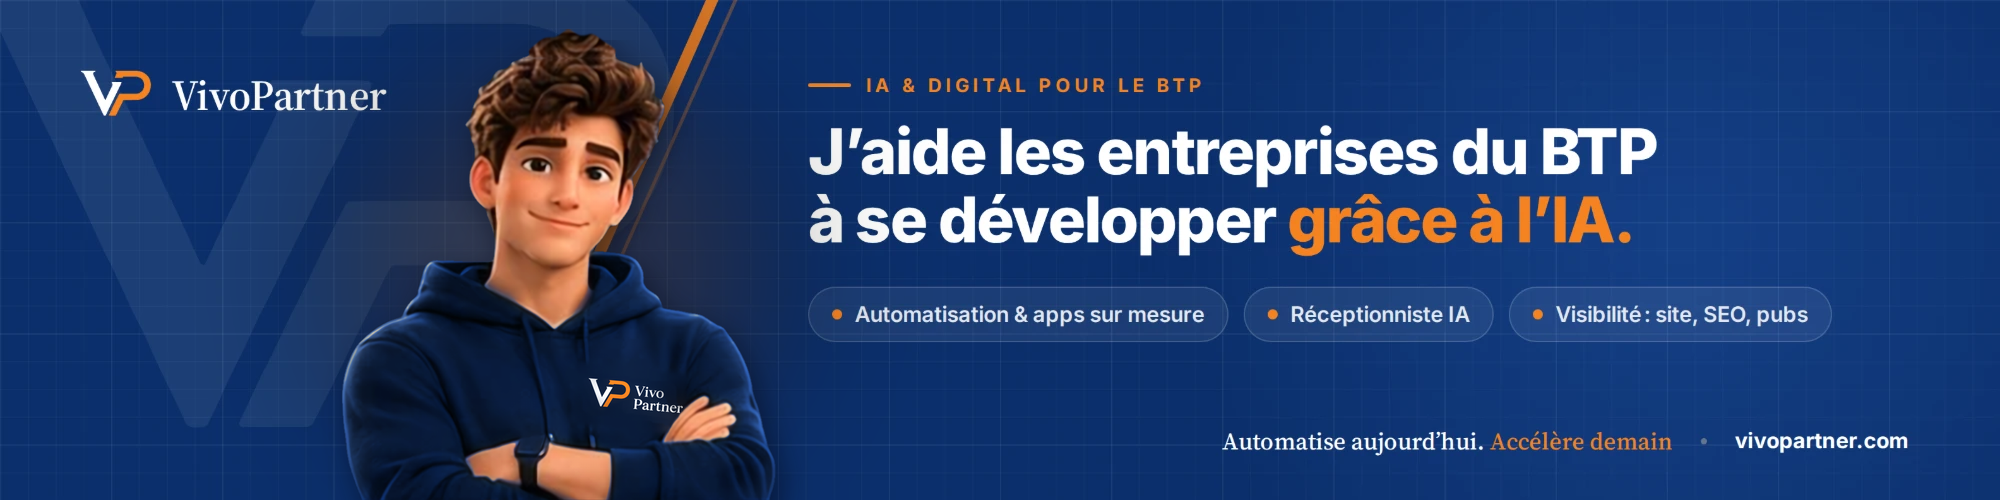
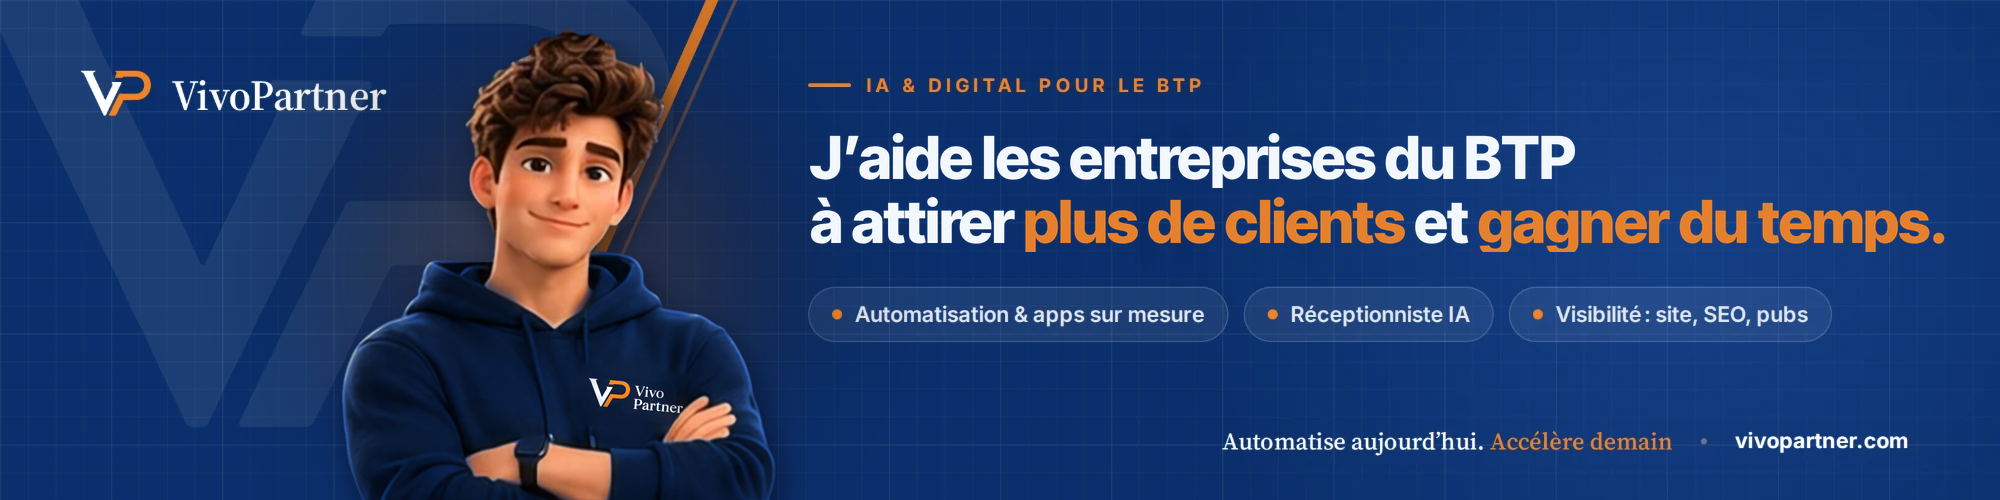
Bannière : nouveau titre « J’aide les entreprises du BTP à attirer plus de clients et gagner du temps. »
Claude-Session: https://claude.ai/code/session_01PVQKuvwkTRBa2t7v57XNUW

Changed region(s): [[0.403, 0.24, 0.992, 0.51]]

diff --git a/video/mascotte/src/banniere-titre/titre.py b/video/mascotte/src/banniere-titre/titre.py
@@ -1,0 +1,43 @@
+"""Remplace le grand titre de la bannière : efface l'ancien (grille du fond reconstruite), écrit le nouveau en Inter Tight."""
+import subprocess, sys, numpy as np, scipy.ndimage as nd
+from PIL import Image
+SRC, OUT = sys.argv[1], sys.argv[2]
+L1 = "J’aide les entreprises du BTP"
+L2 = 'à attirer <span class="o">plus de clients</span> et <span class="o">gagner du temps.</span>'
+X0, MAXW = 810, 1950 - 810
+im = np.array(Image.open(SRC).convert('RGB')).astype(np.float32); H, W = im.shape[:2]
+lum = im.mean(2)
+# 1. masque de l'ancien titre (blanc + orange), un peu élargi
+y0, y1, x0, x1 = 116, 264, 800, 1680
+txt = np.zeros((H, W), bool)
+reg = im[y0:y1, x0:x1]
+txt[y0:y1, x0:x1] = (reg.mean(2) > 95) | ((reg[..., 0] > 140) & (reg[..., 0] - reg[..., 2] > 50))
+mask = nd.binary_dilation(txt, iterations=4)
+# 2. fond lisse (convolution normalisée sur les pixels hors texte)
+hp = lum - nd.gaussian_filter(lum, 6)
+keep = (~mask).astype(np.float32); sm = np.zeros_like(im)
+for c in range(3):
+    sm[..., c] = nd.gaussian_filter(im[..., c] * keep, 14) / np.maximum(nd.gaussian_filter(keep, 14), 1e-4)
+# 3. grille : profils mesurés là où il n'y a pas de texte
+gx = np.median(hp[260:284, :], axis=0)                 # lignes verticales (entre le titre et les pastilles)
+gy = np.median(hp[:, 1700:1980], axis=1)               # lignes horizontales (à droite du titre)
+gx = gx - np.median(gx); gy = gy - np.median(gy)
+fill = sm + (gx[None, :] + gy[:, None])[..., None] * np.array([0.85, 0.95, 1.15])
+soft = nd.gaussian_filter(mask.astype(np.float32), 1.2)[..., None]
+out = im * (1 - soft) + fill * soft
+# 4. nouveau titre : taille calculée pour que la 2e ligne tienne dans la largeur
+def render(path, html, fs):
+    subprocess.run(['node', 'text2.mjs', path, html, f'font-size:{fs}px;letter-spacing:-0.02em;line-height:1;font-weight:800', 'InterTight-800.woff2'], check=True, capture_output=True)
+    t = Image.open(path); a = np.array(t)[..., 3]; ys, xs = np.where(a > 8)
+    return t, xs.min(), xs.max(), ys.min(), ys.max()
+fs = 72.0
+t, a0, a1, b0, b1 = render('l2.png', L2, fs); fs = fs * min(1.0, MAXW / ((a1 - a0 + 1) / 2))
+print('taille du titre : %.1f px' % fs)
+res = Image.fromarray(np.clip(out, 0, 255).astype(np.uint8)).convert('RGBA')
+lh = fs * 1.08; top = 128
+for i, html in enumerate((L1, L2)):
+    t, a0, a1, b0, b1 = render(f'l{i+1}.png', html, fs)
+    t = t.resize((t.width // 2, t.height // 2), Image.LANCZOS)
+    # aligne la gauche de l'encre sur X0 et la ligne de base de la 1re ligne comme l'original
+    res.alpha_composite(t, (round(X0 - a0 / 2), round(top + i * lh)))
+res.convert('RGB').save(OUT, quality=95)

diff --git a/video/mascotte/README.md b/video/mascotte/README.md
@@ -28,4 +28,4 @@ Poses utiles pour les vidéos : salue de la main · pointe vers la caméra · po
 
 ## Bannière
 
-`banniere/banniere-linkedin-mascotte.png` (2000 × 500, format LinkedIn) : la bannière d'origine (`banniere-linkedin-originale.webp`) avec la mascotte bras croisés devant la diagonale orange, hors de la zone couverte par la photo de profil sur LinkedIn (en bas à gauche) et sans toucher le texte. Régénérer : `python3 src/banniere.py ../src/assets/masc_bras.png banniere/banniere-linkedin-originale.webp banniere/banniere-linkedin-mascotte.png 560` (le dernier nombre est la position horizontale du visage).
+`banniere/banniere-linkedin-mascotte.png` (2000 × 500, format LinkedIn) : la bannière d'origine (`banniere-linkedin-originale.webp`) avec la mascotte bras croisés devant la diagonale orange, hors de la zone couverte par la photo de profil sur LinkedIn (en bas à gauche) et sans toucher le texte. Grand titre remplacé par « J’aide les entreprises du BTP / à attirer plus de clients et gagner du temps. » (Inter Tight ExtraBold, « plus de clients » et « gagner du temps » en orange ; l'ancien texte est effacé et la grille du fond reconstruite) : `src/banniere-titre/titre.py`. Régénérer : `python3 src/banniere.py ../src/assets/masc_bras.png banniere/banniere-linkedin-originale.webp banniere/banniere-linkedin-mascotte.png 560` (le dernier nombre est la position horizontale du visage).
